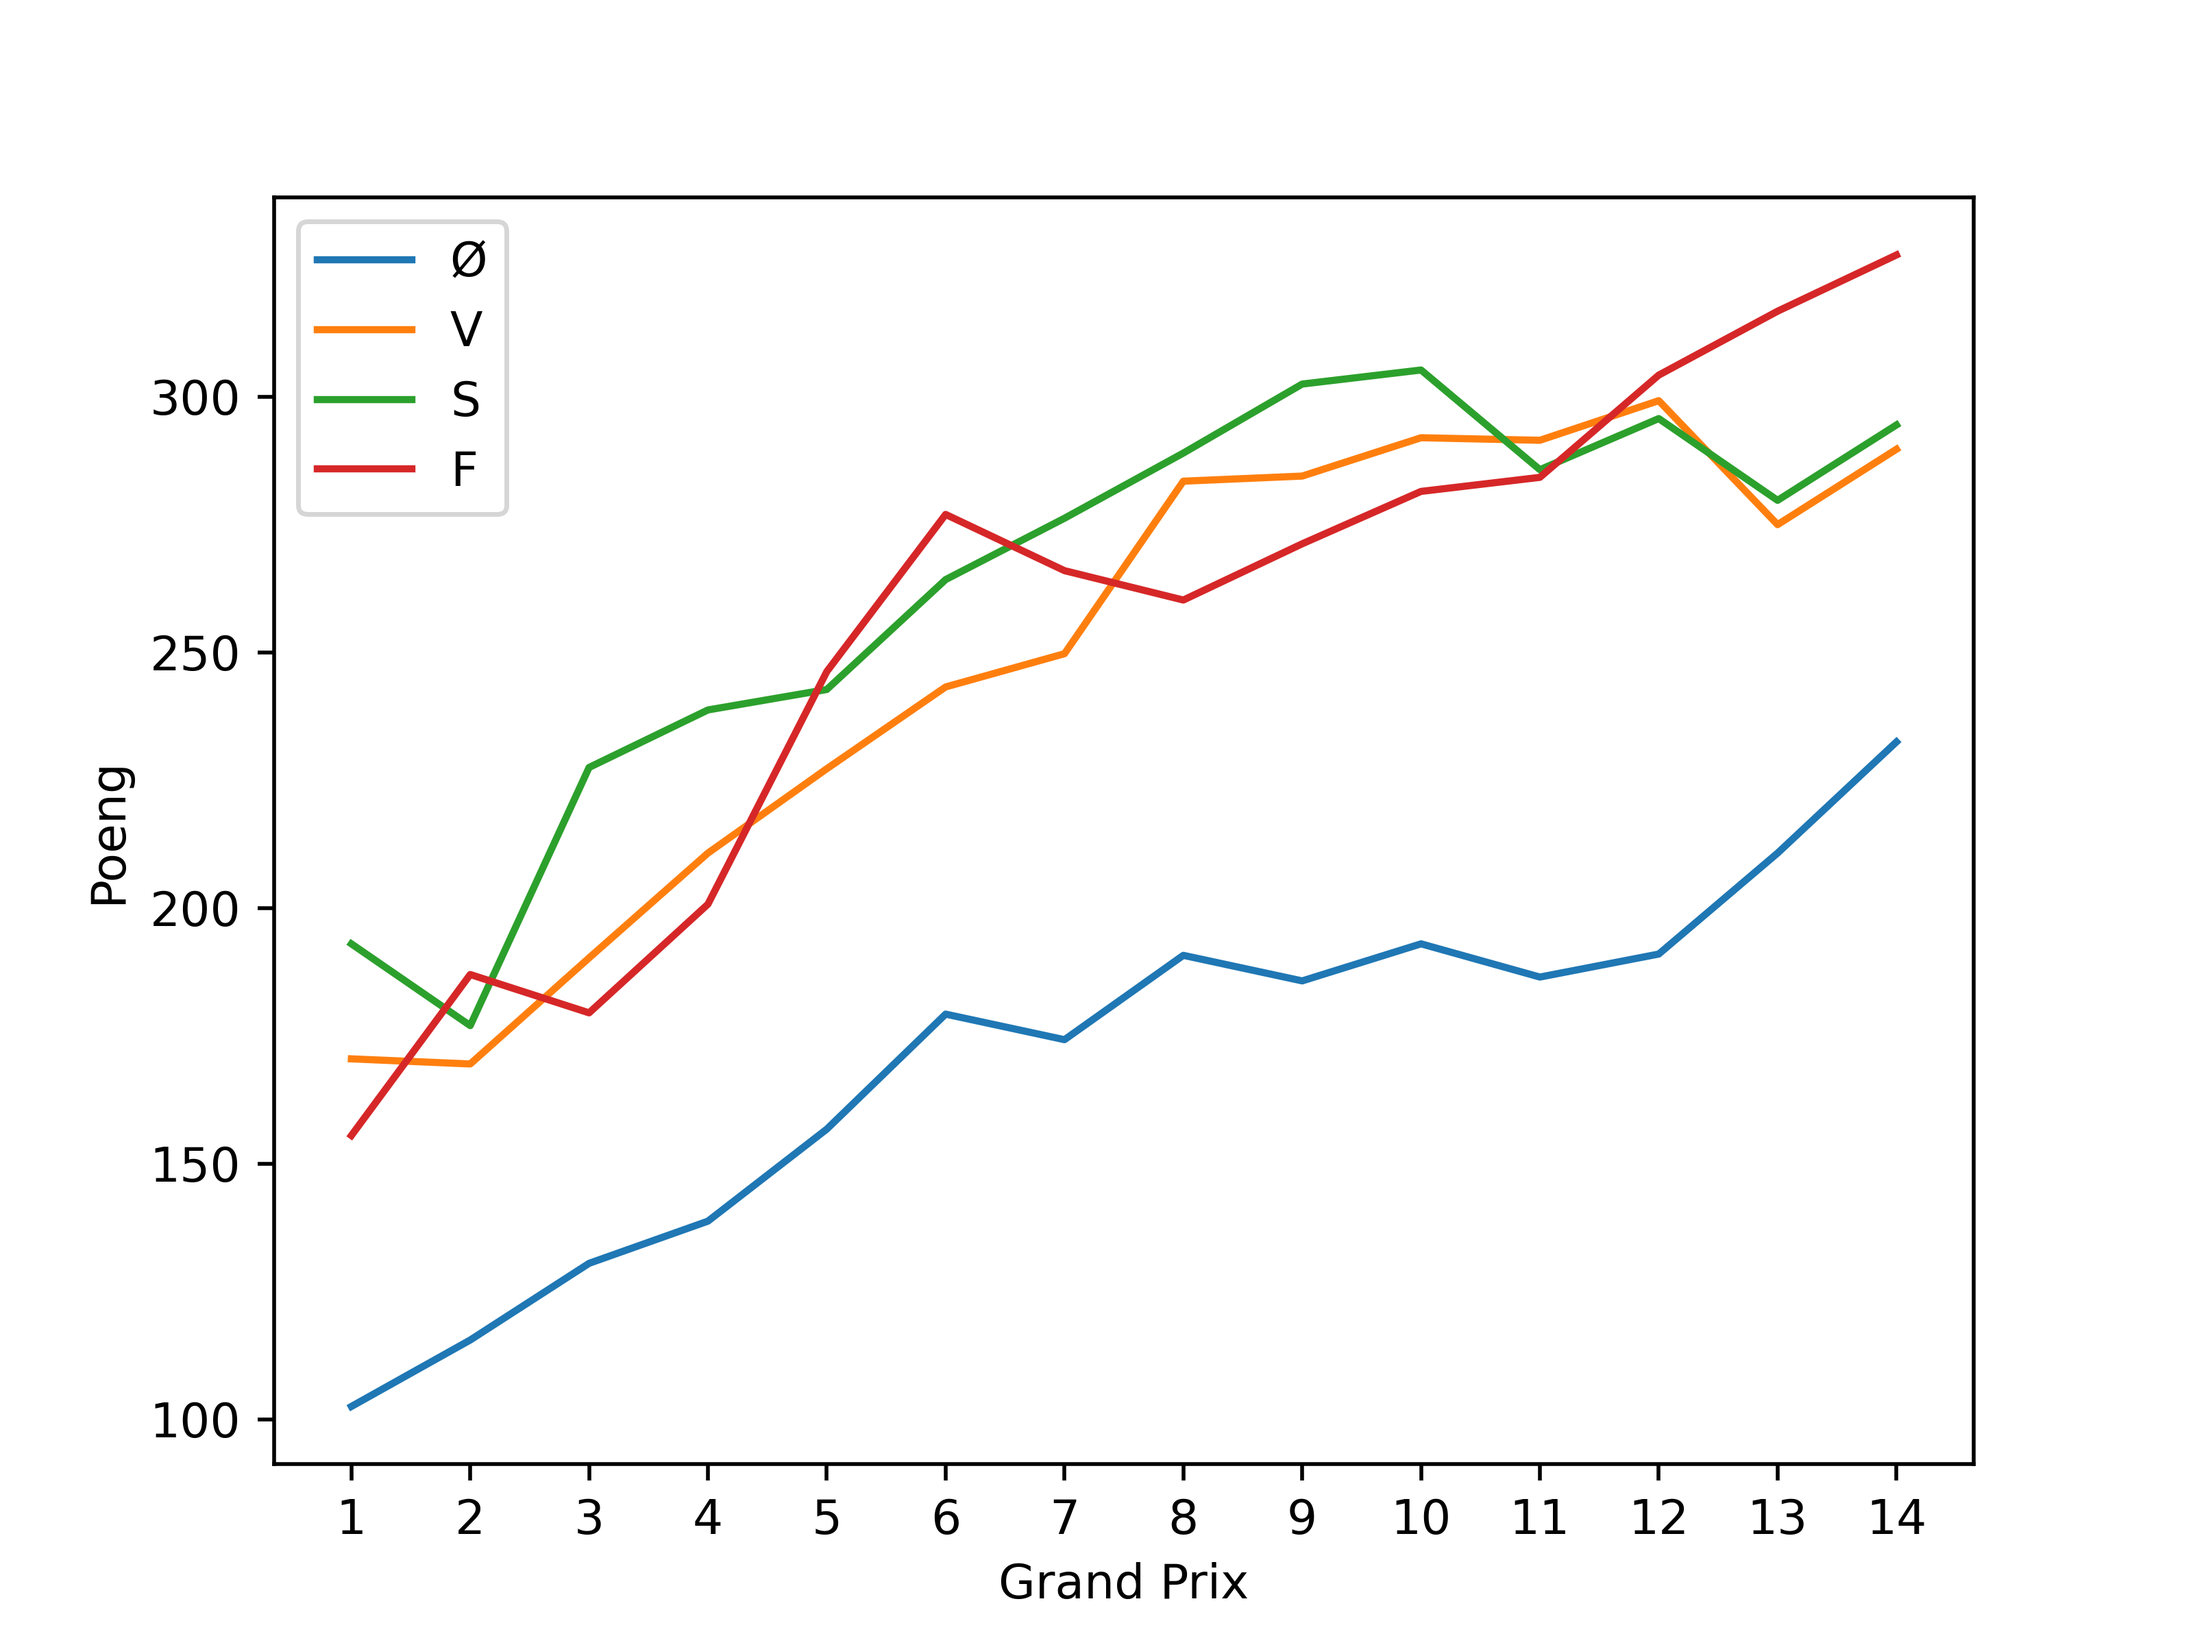
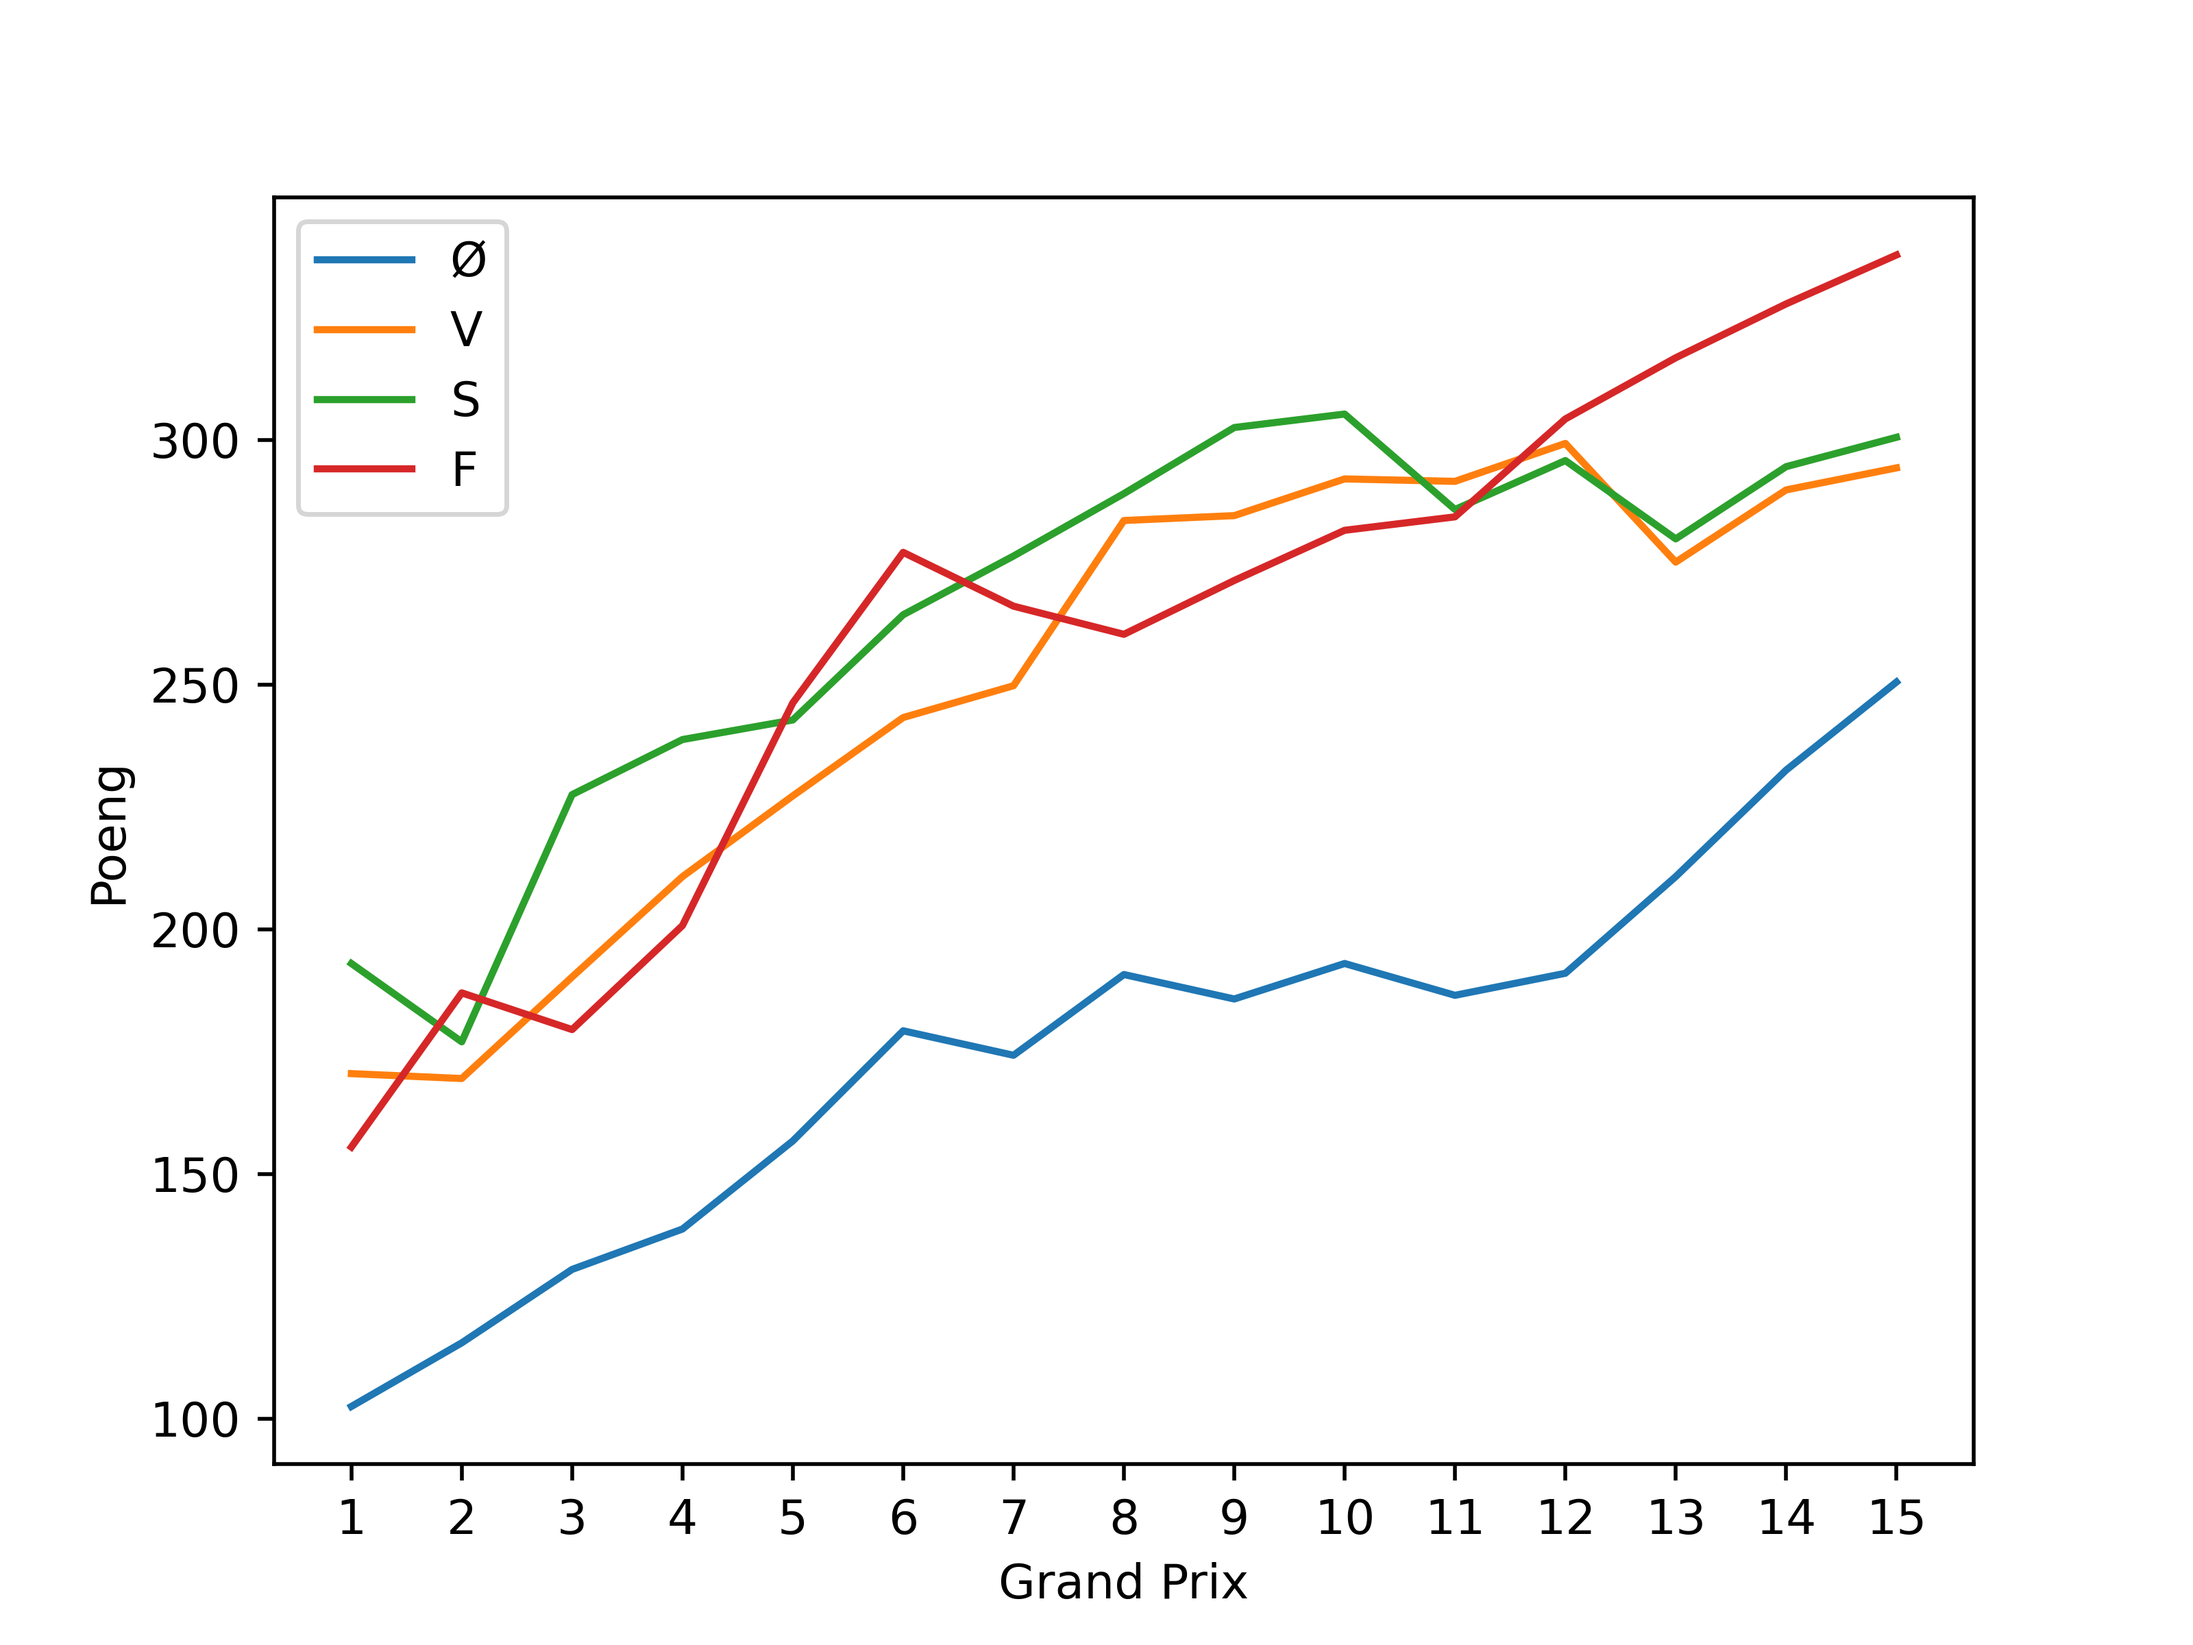
Deployment

diff --git a/resultater_lop.html b/resultater_lop.html
@@ -19,6 +19,204 @@
 <div>
 <h2>Resultater av løp i år</h2>
 <div>
+<h3>15. Netherlands</h3>
+<table>
+<thead>
+<tr>
+<th>Pos</th>
+<th>No</th>
+<th>Driver</th>
+<th>Car</th>
+<th>Laps</th>
+<th>Time/retired</th>
+<th>Pts</th>
+</tr>
+</thead>
+<tbody>
+<tr>
+<td>1</td>
+<td>4</td>
+<td>Lando Norris</td>
+<td>McLaren Mercedes</td>
+<td>72</td>
+<td>1:30:46</td>
+<td>26</td>
+</tr>
+<tr>
+<td>2</td>
+<td>1</td>
+<td>Max Verstappen</td>
+<td>Red Bull Racing Honda RBPT</td>
+<td>72</td>
+<td>+22.896s</td>
+<td>18</td>
+</tr>
+<tr>
+<td>3</td>
+<td>16</td>
+<td>Charles Leclerc</td>
+<td>Ferrari</td>
+<td>72</td>
+<td>+25.439s</td>
+<td>15</td>
+</tr>
+<tr>
+<td>4</td>
+<td>81</td>
+<td>Oscar Piastri</td>
+<td>McLaren Mercedes</td>
+<td>72</td>
+<td>+27.337s</td>
+<td>12</td>
+</tr>
+<tr>
+<td>5</td>
+<td>55</td>
+<td>Carlos Sainz</td>
+<td>Ferrari</td>
+<td>72</td>
+<td>+32.137s</td>
+<td>10</td>
+</tr>
+<tr>
+<td>6</td>
+<td>11</td>
+<td>Sergio Perez</td>
+<td>Red Bull Racing Honda RBPT</td>
+<td>72</td>
+<td>+39.542s</td>
+<td>8</td>
+</tr>
+<tr>
+<td>7</td>
+<td>63</td>
+<td>George Russell</td>
+<td>Mercedes</td>
+<td>72</td>
+<td>+44.617s</td>
+<td>6</td>
+</tr>
+<tr>
+<td>8</td>
+<td>44</td>
+<td>Lewis Hamilton</td>
+<td>Mercedes</td>
+<td>72</td>
+<td>+49.599s</td>
+<td>4</td>
+</tr>
+<tr>
+<td>9</td>
+<td>10</td>
+<td>Pierre Gasly</td>
+<td>Alpine Renault</td>
+<td>71</td>
+<td>+1 lap</td>
+<td>2</td>
+</tr>
+<tr>
+<td>10</td>
+<td>14</td>
+<td>Fernando Alonso</td>
+<td>Aston Martin Aramco Mercedes</td>
+<td>71</td>
+<td>+1 lap</td>
+<td>1</td>
+</tr>
+<tr>
+<td>11</td>
+<td>27</td>
+<td>Nico Hulkenberg</td>
+<td>Haas Ferrari</td>
+<td>71</td>
+<td>+1 lap</td>
+<td>0</td>
+</tr>
+<tr>
+<td>12</td>
+<td>3</td>
+<td>Daniel Ricciardo</td>
+<td>RB Honda RBPT</td>
+<td>71</td>
+<td>+1 lap</td>
+<td>0</td>
+</tr>
+<tr>
+<td>13</td>
+<td>18</td>
+<td>Lance Stroll</td>
+<td>Aston Martin Aramco Mercedes</td>
+<td>71</td>
+<td>+1 lap</td>
+<td>0</td>
+</tr>
+<tr>
+<td>14</td>
+<td>23</td>
+<td>Alexander Albon</td>
+<td>Williams Mercedes</td>
+<td>71</td>
+<td>+1 lap</td>
+<td>0</td>
+</tr>
+<tr>
+<td>15</td>
+<td>31</td>
+<td>Esteban Ocon</td>
+<td>Alpine Renault</td>
+<td>71</td>
+<td>+1 lap</td>
+<td>0</td>
+</tr>
+<tr>
+<td>16</td>
+<td>2</td>
+<td>Logan Sargeant</td>
+<td>Williams Mercedes</td>
+<td>71</td>
+<td>+1 lap</td>
+<td>0</td>
+</tr>
+<tr>
+<td>17</td>
+<td>22</td>
+<td>Yuki Tsunoda</td>
+<td>RB Honda RBPT</td>
+<td>71</td>
+<td>+1 lap</td>
+<td>0</td>
+</tr>
+<tr>
+<td>18</td>
+<td>20</td>
+<td>Kevin Magnussen</td>
+<td>Haas Ferrari</td>
+<td>71</td>
+<td>+1 lap</td>
+<td>0</td>
+</tr>
+<tr>
+<td>19</td>
+<td>77</td>
+<td>Valtteri Bottas</td>
+<td>Kick Sauber Ferrari</td>
+<td>70</td>
+<td>+2 laps</td>
+<td>0</td>
+</tr>
+<tr>
+<td>20</td>
+<td>24</td>
+<td>Zhou Guanyu</td>
+<td>Kick Sauber Ferrari</td>
+<td>70</td>
+<td>+2 laps</td>
+<td>0</td>
+</tr>
+</tbody>
+</table>
+</div>
+<div>
 <h3>14. Belgium</h3>
 <table>
 <thead>

diff --git a/index.html b/index.html
@@ -39,40 +39,40 @@
 <td>F</td>
 <td>87</td>
 <td>44</td>
-<td>50.75</td>
+<td>51.75</td>
 <td>93</td>
 <td>62</td>
-<td>336.75</td>
+<td>337.75</td>
 </tr>
 <tr>
 <td>2</td>
 <td>S</td>
 <td>85</td>
 <td>40</td>
-<td>48.5</td>
+<td>49.5</td>
 <td>84</td>
 <td>42</td>
-<td>299.5</td>
+<td>300.5</td>
 </tr>
 <tr>
 <td>3</td>
 <td>V</td>
 <td>88</td>
 <td>40</td>
-<td>44.75</td>
+<td>49.25</td>
 <td>82</td>
 <td>35</td>
-<td>289.75</td>
+<td>294.25</td>
 </tr>
 <tr>
 <td>4</td>
 <td>Ø</td>
 <td>61</td>
 <td>40</td>
-<td>51.5</td>
+<td>54.5</td>
 <td>95</td>
 <td>0</td>
-<td>247.5</td>
+<td>250.5</td>
 </tr>
 </tbody>
 </table>
@@ -788,22 +788,22 @@
 </tr>
 <tr>
 <td>15. Netherlands</td>
-<td><div id="hidden">█</div><div id="result">Lance Stroll</div></td>
-<td><div id="hidden">█</div><div id="result">8</div></td>
-<td>N/A</td>
-<td>0</td>
-<td><div id="hidden">█</div><div id="result">Nico Hulkenberg</div></td>
-<td><div id="hidden">█</div><div id="result">12</div></td>
-<td>N/A</td>
-<td>0</td>
-<td><div id="hidden">█</div><div id="result">Yuki Tsunoda</div></td>
+<td>Lance Stroll</td>
+<td>8</td>
+<td><div id="hidden">█</div><div id="result">13</div></td>
+<td><div id="hidden">█</div><div id="result">3.0</div></td>
+<td>Nico Hulkenberg</td>
+<td>12</td>
 <td><div id="hidden">█</div><div id="result">11</div></td>
-<td>N/A</td>
-<td>0</td>
-<td><div id="hidden">█</div><div id="result">Yuki Tsunoda</div></td>
-<td><div id="hidden">█</div><div id="result">11</div></td>
-<td>N/A</td>
-<td>0</td>
+<td><div id="hidden">█</div><div id="result">4.5</div></td>
+<td>Yuki Tsunoda</td>
+<td>11</td>
+<td><div id="hidden">█</div><div id="result">17</div></td>
+<td><div id="hidden">█</div><div id="result">1.0</div></td>
+<td>Yuki Tsunoda</td>
+<td>11</td>
+<td><div id="hidden">█</div><div id="result">17</div></td>
+<td><div id="hidden">█</div><div id="result">1.0</div></td>
 </tr>
 </tbody>
 </table>
@@ -1217,7 +1217,7 @@
 </div>
 <div>
 <h3>Antall gule flagg<br>
-Faktisk antall: 27. Antatt total: 46.3</h3>
+Faktisk antall: 27. Antatt total: 43.2</h3>
 <table>
 <thead>
 <tr>
@@ -1262,7 +1262,7 @@ Faktisk antall: 27. Antatt total: 46.3</h3>
 </div>
 <div>
 <h3>Antall røde flagg<br>
-Faktisk antall: 2. Antatt total: 3.4</h3>
+Faktisk antall: 2. Antatt total: 3.2</h3>
 <table>
 <thead>
 <tr>
@@ -1307,7 +1307,7 @@ Faktisk antall: 2. Antatt total: 3.4</h3>
 </div>
 <div>
 <h3>Antall sikkerhetsbiler (inkl. VSC)<br>
-Faktisk antall: 12. Antatt total: 20.6</h3>
+Faktisk antall: 12. Antatt total: 19.2</h3>
 <table>
 <thead>
 <tr>
